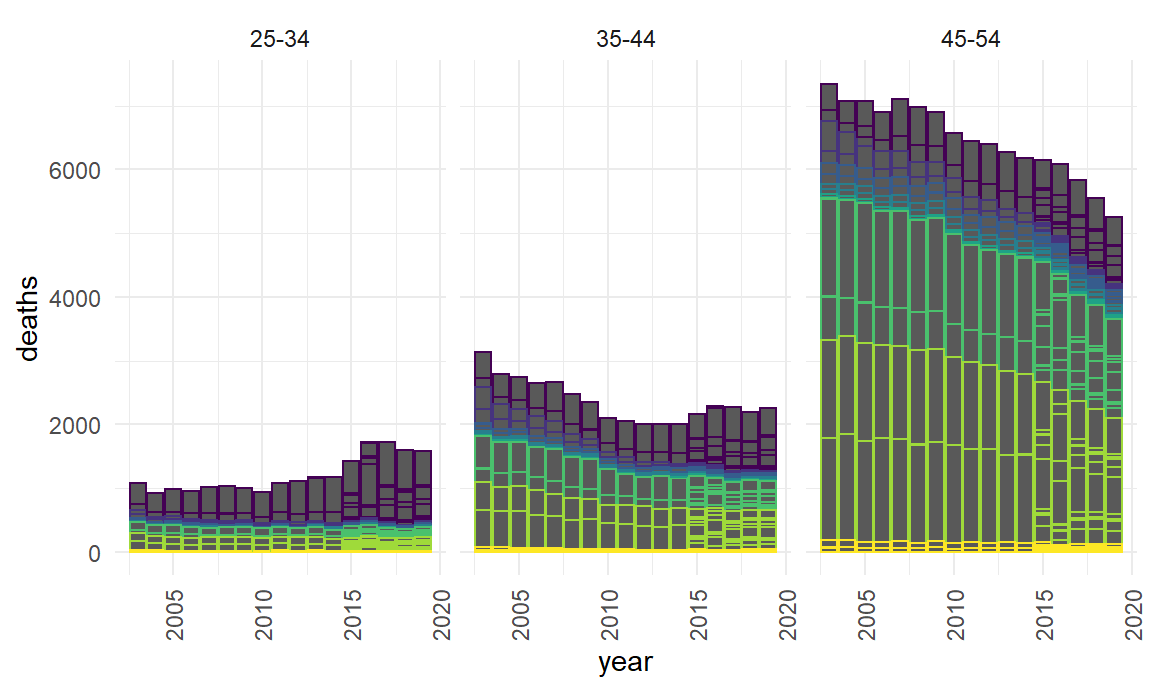
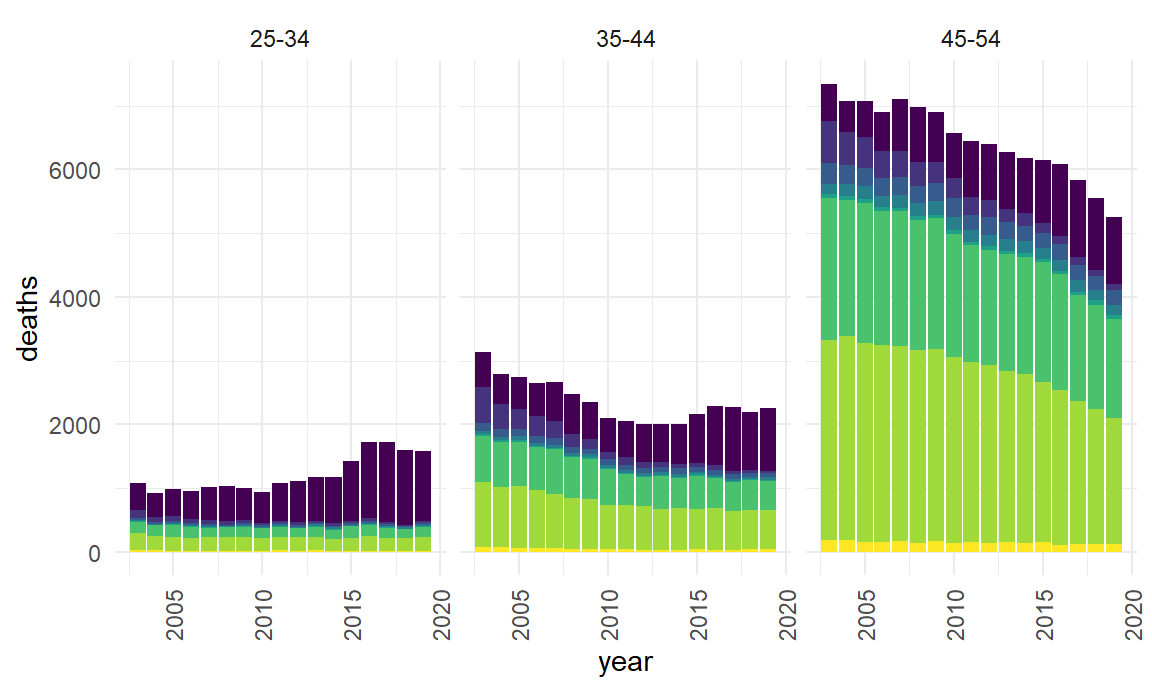
figure explanations in age.rmd

Changed region(s): [[0.4062, 0.1216, 1.0, 0.8205], [0.0938, 0.6382, 0.375, 0.8205]]

diff --git a/age.html b/age.html
@@ -333,7 +333,10 @@ div.tocify {
       </ul>
       <ul class="nav navbar-nav navbar-right">
         <li>
-  <a href="age.html">Age as a predictor</a>
+  <a href="index.html">Report</a>
+</li>
+<li>
+  <a href="age.html">Predictor: Age Group</a>
 </li>
       </ul>
     </div><!--/.nav-collapse -->
@@ -359,7 +362,9 @@ div.tocify {
 
 <pre class="r"><code>#datasets for exploratory analysis
 death_in_nys = read_csv(&quot;data/Vital_Statistics_Deaths_by_Region_and_Age-Group_by_Selected_Cause_of_Death___Beginning_2003.csv&quot;) %&gt;%
-  janitor::clean_names()
+  janitor::clean_names() %&gt;%
+  mutate(selected_cause_of_death = recode(selected_cause_of_death,
+       &quot;CLRD&quot; = &quot;Chronic Lower Respiratory Disease&quot;))
 
 death_by_age = read_csv(&quot;data/Vital_Statistics_Deaths_by_Resident_County__Region__and_Age-Group__Beginning_2003.csv&quot;) %&gt;%
   janitor::clean_names() %&gt;%
@@ -387,15 +392,16 @@ groups. Additionally a further analysis is performed to view the
 relationship between age group on deaths caused by suicides and opioids.
 Though suicide and opioid related deaths are not leading causes of death
 in New York City, the growing death rate in these categories has been a
-concern to the medical and public health community. </p>
+concern to the medical and public health community.</p>
+<p><br></p>
 </div>
-<div id="leading-causes-of-death-in-new-york-state-by-age-group"
+<div id="selected-causes-of-death-in-new-york-state-by-age-group"
 class="section level3">
-<h3>Leading causes of death in New York State by Age Group</h3>
+<h3>Selected causes of death in New York State by Age Group</h3>
 <pre class="r"><code> death_in_nys %&gt;%
   filter(age_group == &quot;&lt;1&quot; | age_group == &quot;1-9&quot; | age_group == &quot;10-19&quot; | age_group == &quot;20-24&quot;, selected_cause_of_death != &quot;Total&quot;,selected_cause_of_death != &quot;All Other Causes&quot;) %&gt;%
 group_by(year, age_group, selected_cause_of_death)%&gt;%
-  ggplot(aes(x=year, y=deaths, color=selected_cause_of_death))+
+  ggplot(aes(x=year, y=deaths, fill=selected_cause_of_death))+
   geom_bar(stat=&quot;identity&quot;)+
   theme(axis.text.x = element_text(angle = 90, vjust = 0.5, hjust=1))+
   facet_grid(~age_group)+
@@ -404,7 +410,7 @@ group_by(year, age_group, selected_cause_of_death)%&gt;%
 <pre class="r"><code>death_in_nys %&gt;%
   filter(age_group == &quot;25-34&quot; | age_group == &quot;35-44&quot; | age_group == &quot;45-54&quot;, selected_cause_of_death != &quot;Total&quot;,selected_cause_of_death != &quot;All Other Causes&quot;) %&gt;%
 group_by(year, age_group, selected_cause_of_death)%&gt;%
-  ggplot(aes(x=year, y=deaths, color=selected_cause_of_death))+
+  ggplot(aes(x=year, y=deaths, fill=selected_cause_of_death))+
   geom_bar(stat=&quot;identity&quot;)+
   theme(axis.text.x = element_text(angle = 90, vjust = 0.5, hjust=1))+
   facet_grid(~age_group)+
@@ -413,15 +419,14 @@ group_by(year, age_group, selected_cause_of_death)%&gt;%
 <pre class="r"><code>death_in_nys %&gt;%
   filter(age_group == &quot;55-64&quot; | age_group == &quot;65-74&quot; | age_group == &quot;75-84&quot; | age_group == &quot;85+&quot;, selected_cause_of_death != &quot;Total&quot;,selected_cause_of_death != &quot;All Other Causes&quot;) %&gt;%
 group_by(year, age_group, selected_cause_of_death)%&gt;%
-  ggplot(aes(x=year, y=deaths, color=selected_cause_of_death))+
+  ggplot(aes(x=year, y=deaths, fill=selected_cause_of_death))+
   geom_bar(stat=&quot;identity&quot;)+
   theme(axis.text.x = element_text(angle = 90, vjust = 0.5, hjust=1))+
   facet_grid(~age_group)+
-  theme(legend.position = &quot;bottom&quot;)+
-  labs(fill=&quot;Selected Causes&quot;)+
-  guides(color=guide_legend(nrow=4, byrow=TRUE))</code></pre>
+  theme(legend.position = &quot;bottom&quot;,  legend.key.size=unit(5,&quot;point&quot;))+
+  guides(fill=guide_legend(nrow=5, byrow=TRUE))+
+  labs(fill=&quot;Selected Causes&quot;)</code></pre>
 <p><img src="age_files/figure-html/unnamed-chunk-3-3.png" width="90%" /></p>
-<pre class="r"><code>#youth_causes / adult_causes/ elder_causes </code></pre>
 <p>Using the vital statistics of death data from the New York State
 Bureau of Vital and Health Statistics, our visual points to visible
 differences in leading causes of death among the age groups. Accidents
@@ -429,6 +434,7 @@ seem to be a more frequent cause of death for the age groups of 25-34
 and 35-44, which for individuals who are 45+ the frequency of death by
 diseases of the heart and malignant neoplasms are larger. While among
 the youth accidents have a higher cases of death in New York City.</p>
+<p><br></p>
 </div>
 <div
 id="trend-of-the-number-of-deaths-by-age-group-by-county-in-the-nyc-region-over-the-years"
@@ -440,7 +446,8 @@ region over the years</h3>
   group_by(county_name, age_group) %&gt;%
   ggplot(aes(x=year, y = deaths, color = age_group)) +
   geom_line()+
-  facet_grid(~county_name)</code></pre>
+  facet_grid(~county_name)+
+  labs(fill=&quot;Age Group&quot;)</code></pre>
 <p><img src="age_files/figure-html/unnamed-chunk-4-1.png" width="90%" /></p>
 </div>
 
